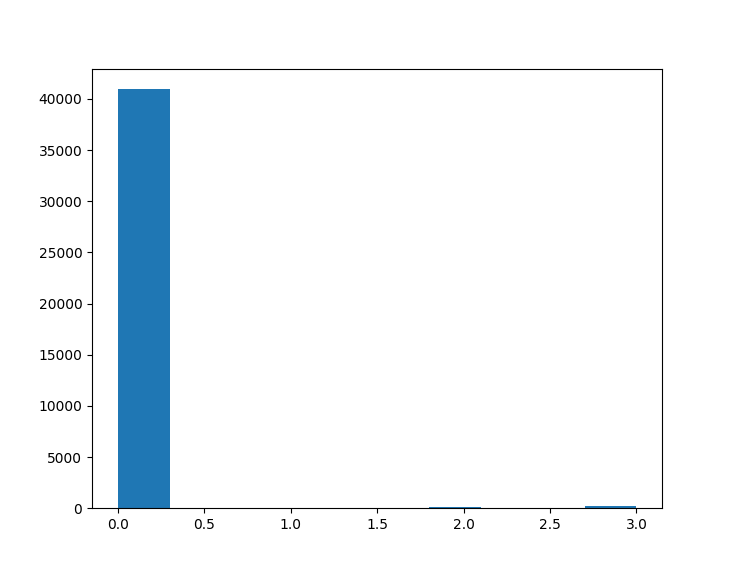
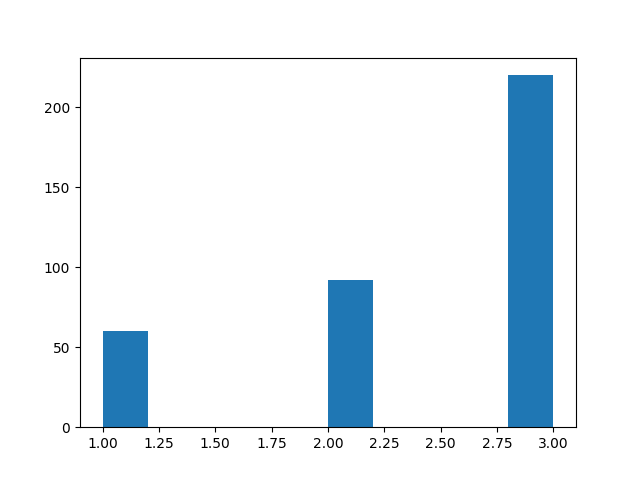
Remove 0s from the distribution plot

diff --git a/make_distribution_plot.py b/make_distribution_plot.py
@@ -6,7 +6,7 @@ G = nx.read_graphml('core_network_weighted.graphml')
 
 # Plot the distribution of weights
 # Should I do all edges or just the one per reaction?
-plt.hist([G.edges[edge]['weight'] for edge in G.edges()])
+plt.hist([G.edges[edge]['weight'] for edge in G.edges() if G.edges[edge]['weight'] != 0])
 
 # Save the plot
 plt.savefig('weight_distribution.png')
